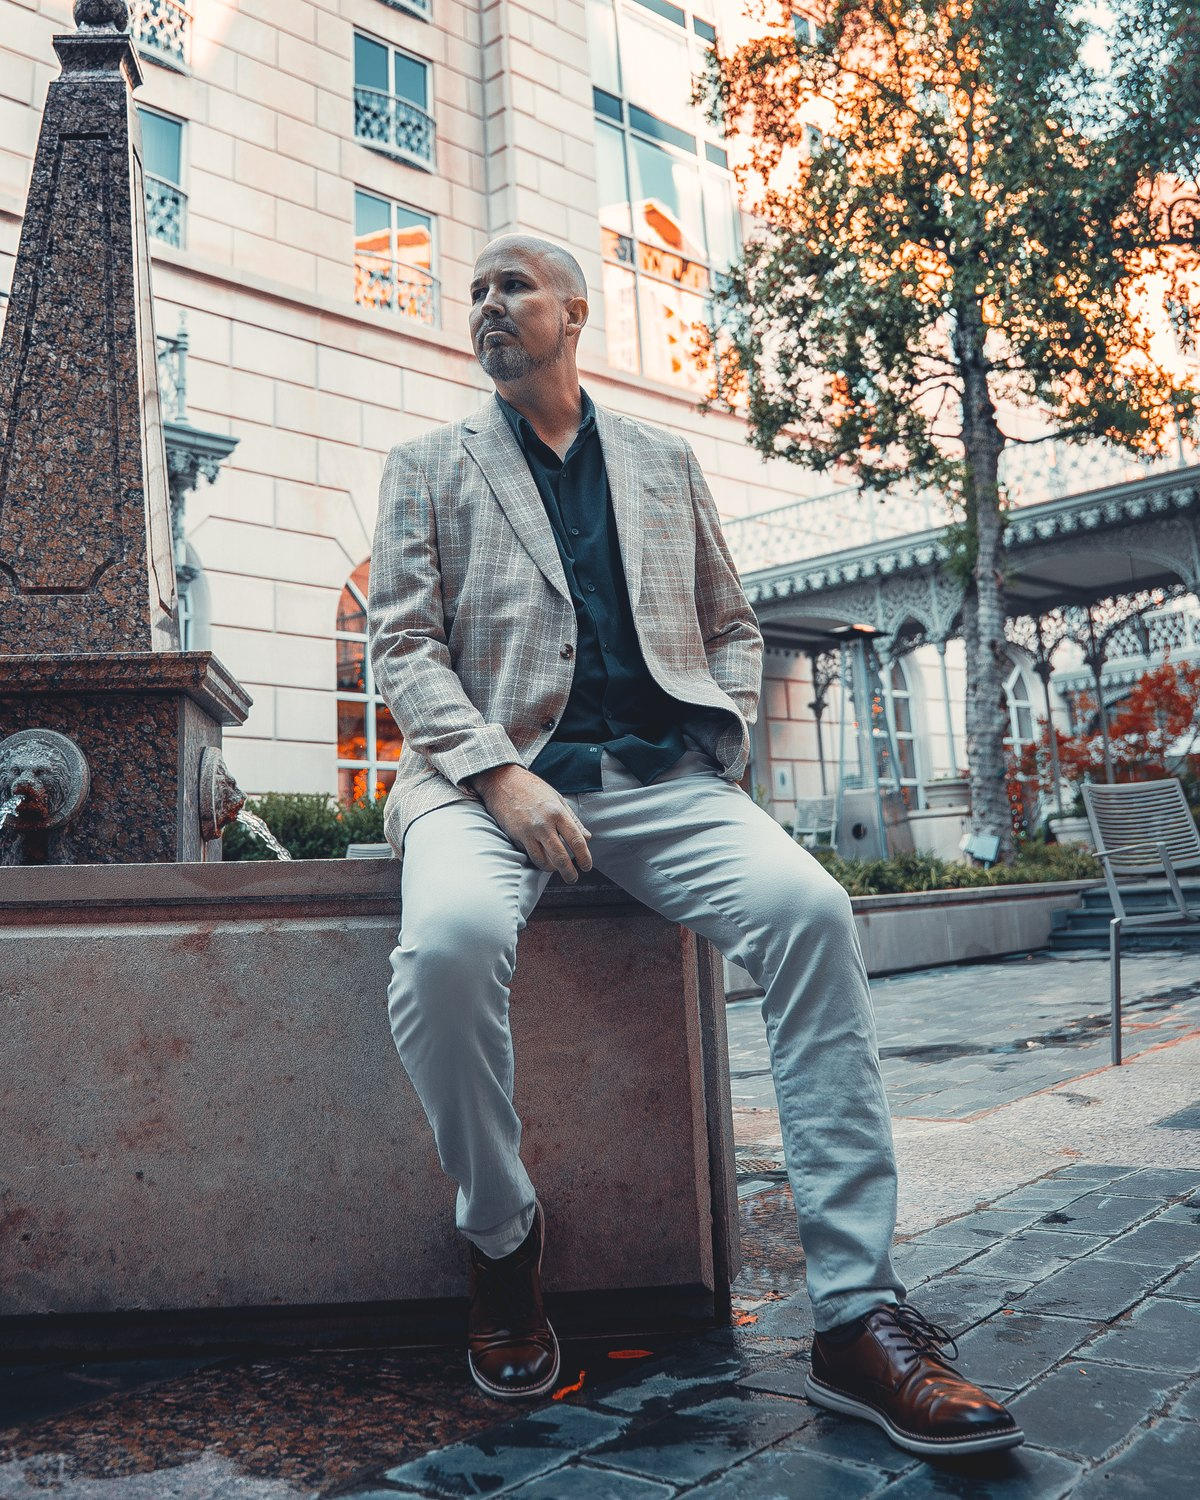
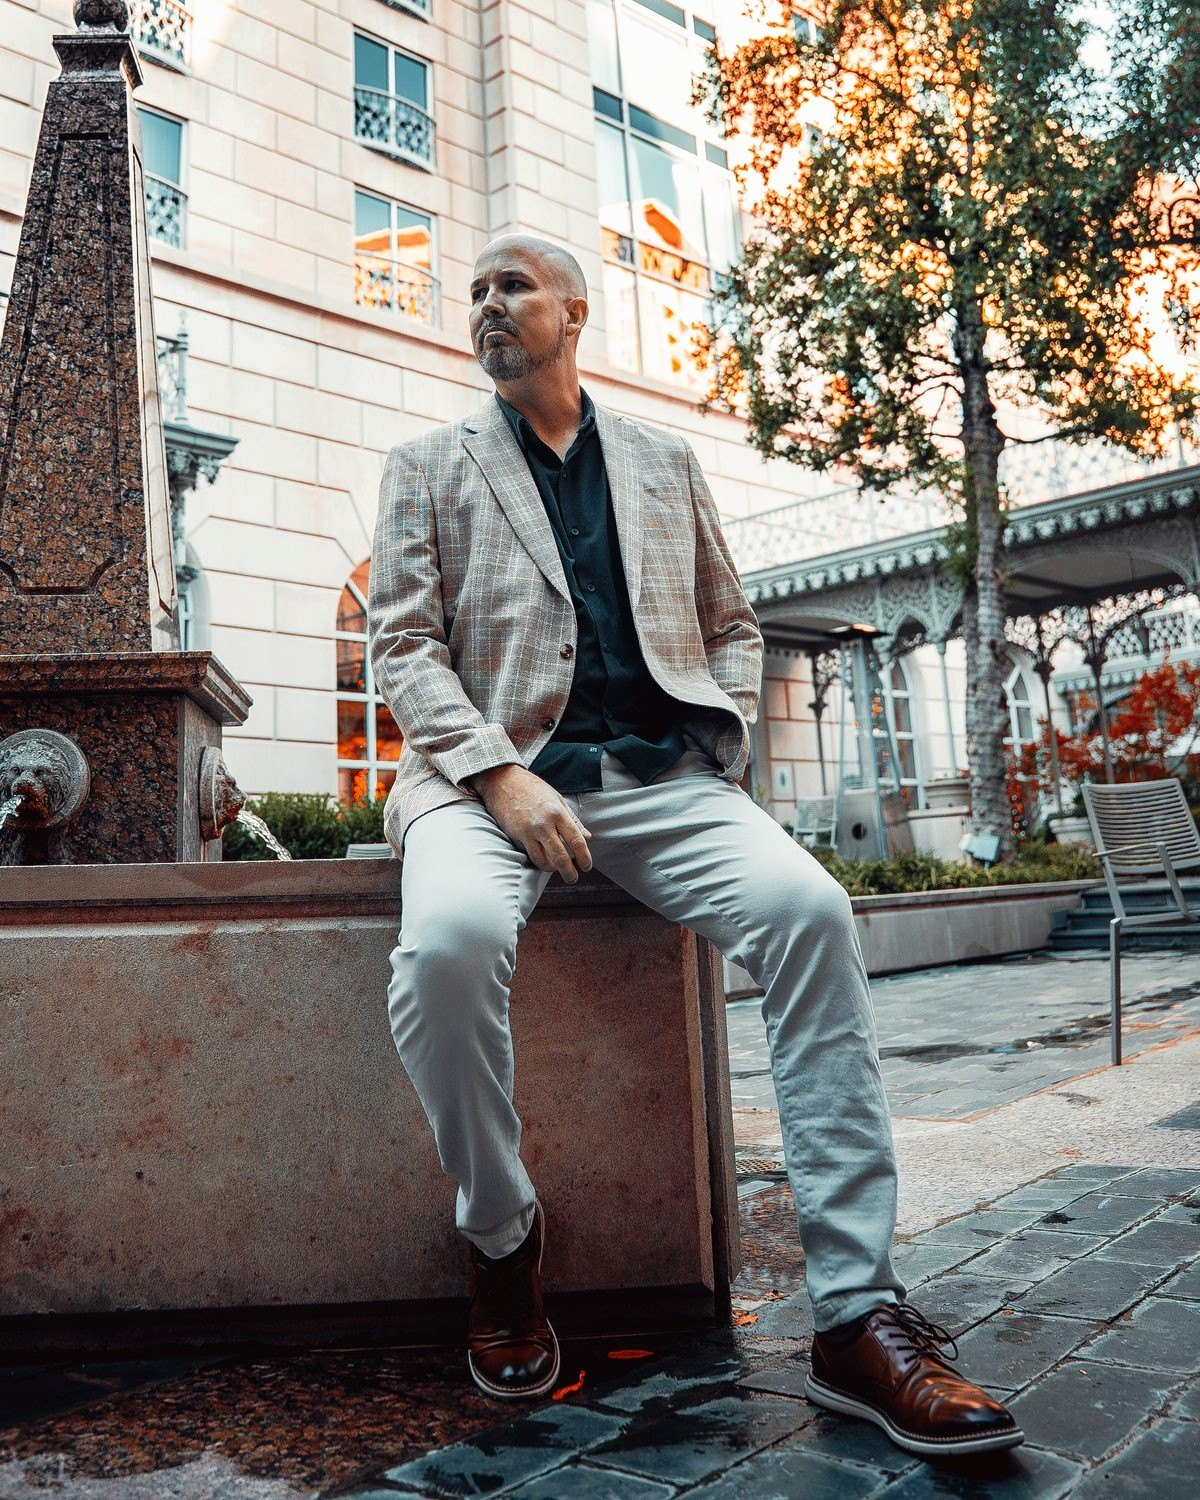
dhellmer.com: regrade the portrait (natural) (#5)
The owner judged the photographer's grade off; measurement agreed: lifted
blacks (darkest pixels ~RGB 21-27), teal shadows (30/32/39), clipped warm
highlights, slightly grey skin. Owner picked variant A from a comparison.

Global tone and colour only: per-channel levels removing most of the
matte lift and its teal cast, highlight roll-off, midtones balanced to a
warm neutral, a mild S-curve. No local, retouching or generative edits.
tools/portrait-grade.py records exactly how (not part of the build).
The asset stays a 1200x1500, metadata-free derivative.

diff --git a/sites/dhellmer/tools/portrait-grade.py b/sites/dhellmer/tools/portrait-grade.py
@@ -1,0 +1,86 @@
+"""How src/assets/portrait.jpg was graded (variant A-natural, owner's pick 2026-10-18). Not part of the
+site build; kept so the edit is reproducible. Input: the clean 1200x1500 crop described in
+components/Portrait.astro. Needs Pillow and numpy.
+
+Conservative global regrade of the dhellmer.com portrait: tone and colour only, no local or
+generative edits. Writes variants and a side-by-side comparison sheet.
+Usage: python -I grade.py <in.jpg> <out-dir>
+"""
+import sys
+import numpy as np
+from PIL import Image, ImageDraw, ImageFont
+
+src, out = sys.argv[1], sys.argv[2]
+img = Image.open(src).convert("RGB")
+a = np.asarray(img).astype(np.float64) / 255.0
+flat = a.reshape(-1, 3)
+
+
+def levels(x, black, white):
+    """Per-channel levels: map black->0, white->1."""
+    return np.clip((x - black) / (white - black), 0, 1)
+
+
+def scurve(x, s):
+    """Gentle S-curve blended toward smoothstep by s (0 = none)."""
+    return (1 - s) * x + s * (x * x * (3 - 2 * x))
+
+
+def balance_mid(x, target):
+    """Per-channel gamma so the luminance-median pixels land on the target neutral."""
+    L = x.mean(2)
+    m = (L > np.percentile(L, 40)) & (L < np.percentile(L, 60))
+    med = x[m].mean(0)
+    g = np.log(np.clip(target, 1e-3, 1)) / np.log(np.clip(med, 1e-3, 1))
+    return np.clip(x, 0, 1) ** g
+
+
+def saturation(x, k):
+    L = (x * [0.2126, 0.7152, 0.0722]).sum(2, keepdims=True)
+    return np.clip(L + (x - L) * k, 0, 1)
+
+
+def soft_highlights(x, knee=0.9, ceil=0.985):
+    """Roll highlights off above the knee so clipped warm areas regain a little shape."""
+    y = x.copy()
+    hi = x > knee
+    t = (x[hi] - knee) / (1 - knee)
+    y[hi] = knee + (ceil - knee) * (1 - (1 - t) ** 2)
+    return y
+
+
+black = np.percentile(flat, 0.5, axis=0) * 0.9   # remove most of the matte lift and its teal cast
+white = np.percentile(flat, 99.7, axis=0)
+
+base = levels(a, black, white)
+base = soft_highlights(base)
+
+variants = {
+    "A-natural": saturation(scurve(balance_mid(base, np.array([0.445, 0.430, 0.410])), 0.18), 1.02),
+    "B-warm": saturation(scurve(balance_mid(base, np.array([0.470, 0.440, 0.400])), 0.12), 0.95),
+}
+
+for name, v in variants.items():
+    Image.fromarray((v * 255 + 0.5).astype(np.uint8)).save(f"{out}/portrait-{name}.jpg", "JPEG", quality=90)
+
+# Comparison sheet: original, A, B at display-ish size with labels.
+w, h = 440, 550
+panels = [("Original (current site)", img)] + [
+    (f"{n.split('-')[0]}: {n.split('-')[1]}", Image.open(f"{out}/portrait-{n}.jpg")) for n in variants
+]
+sheet = Image.new("RGB", (len(panels) * (w + 20) + 20, h + 70), (241, 237, 226))
+d = ImageDraw.Draw(sheet)
+try:
+    font = ImageFont.truetype("C:/Windows/Fonts/segoeui.ttf", 20)
+except OSError:
+    font = ImageFont.load_default()
+for i, (label, im) in enumerate(panels):
+    x = 20 + i * (w + 20)
+    sheet.paste(im.resize((w, h), Image.LANCZOS), (x, 20))
+    d.text((x, h + 32), label, fill=(20, 32, 43), font=font)
+sheet.save(f"{out}/portrait-compare.jpg", "JPEG", quality=88)
+
+for name, v in variants.items():
+    f = (v * 255)[230:420, 470:620].reshape(-1, 3).mean(0).round(0)
+    s = (v * 255)[(v.mean(2) < np.percentile(v.mean(2), 10))].mean(0).round(0)
+    print(name, "face", f, "shadows", s, "p0.5", np.percentile((v * 255).reshape(-1, 3), 0.5, axis=0).round(0))
